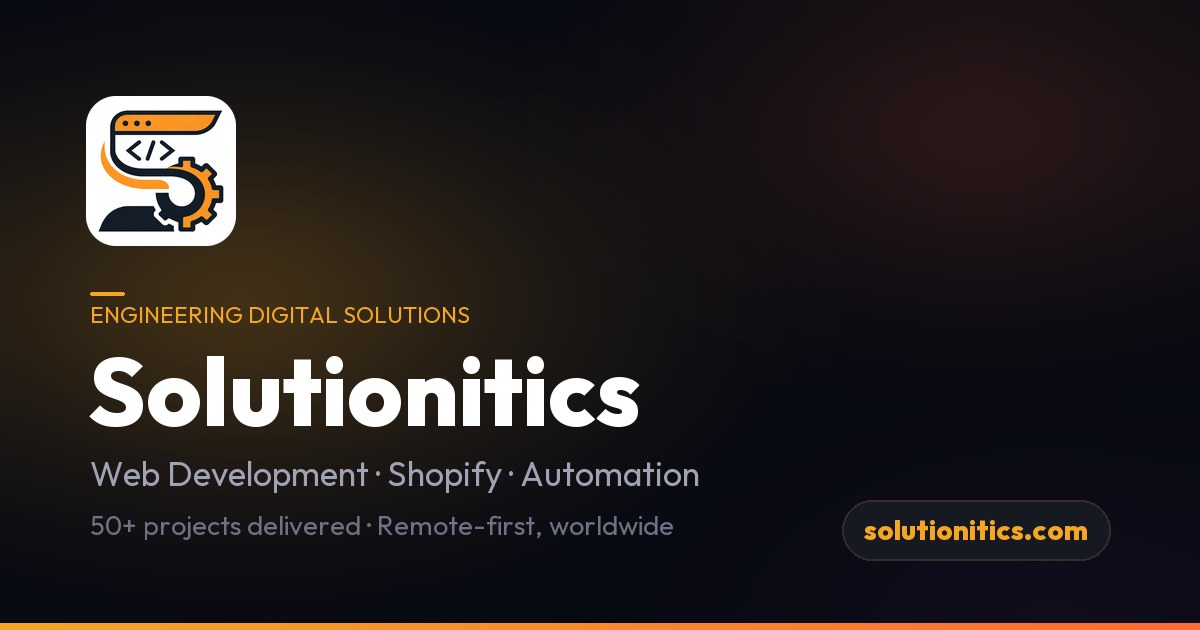
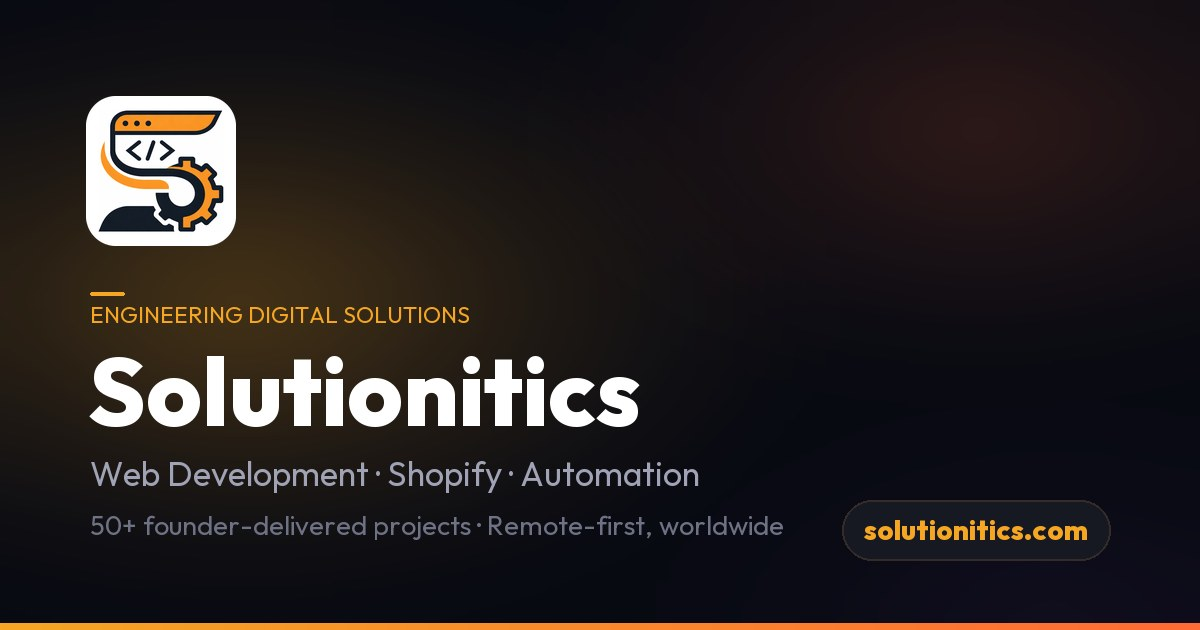
improve wordings

Changed region(s): [[0.1233, 0.8143, 0.6475, 0.8746]]

diff --git a/index.html b/index.html
@@ -7,7 +7,7 @@
   <link rel="preconnect" href="https://fonts.gstatic.com" crossorigin>
   <link rel="stylesheet" href="https://fonts.googleapis.com/css2?family=Inter:wght@300;400;500;600;700&amp;family=Outfit:wght@400;500;600;700;800&amp;display=swap">
   <title>Solutionitics — IT Solutions, Web Development & Shopify Experts</title>
-  <meta name="description" content="Solutionitics delivers premium web development, Shopify store builds, automation, and IT solutions. Founded by industry experts with 50+ projects delivered.">
+  <meta name="description" content="Solutionitics delivers premium web development, Shopify store builds, automation, and IT solutions — founded by developers with 50+ combined projects delivered.">
   <meta name="keywords" content="web development, Shopify development, automation, IT solutions, full stack, ecommerce, SEO optimization">
   <meta name="author" content="Solutionitics">
   <meta name="robots" content="index, follow">
@@ -158,13 +158,14 @@
         </div>
         <div class="hero-stat">
           <h3><span data-count="20" data-suffix="+">0</span></h3>
-          <p>Happy Clients</p>
+          <p>Clients Served</p>
         </div>
         <div class="hero-stat">
           <h3><span data-count="4" data-suffix="+">0</span></h3>
-          <p>Years Experience</p>
+          <p>Years' Experience</p>
         </div>
       </div>
+      <p class="hero-stats-note">Our founders' combined track record — Solutionitics launched in 2026.</p>
     </div>
   </section>
 

diff --git a/about.html b/about.html
@@ -157,7 +157,7 @@
               <div class="feature-icon">
                 <svg width="22" height="22" viewBox="0 0 24 24" fill="none" stroke="currentColor" stroke-width="2" stroke-linecap="round"><path d="M22 11.08V12a10 10 0 11-5.93-9.14"/><polyline points="22 4 12 14.01 9 11.01"/></svg>
               </div>
-              <div><h4>50+ Projects</h4><p>Successfully delivered across web, Shopify, and automation.</p></div>
+              <div><h4>50+ Projects</h4><p>Delivered by our founders across web, Shopify, and automation.</p></div>
             </div>
             <div class="feature-item">
               <div class="feature-icon">

diff --git a/css/style.css b/css/style.css
@@ -231,6 +231,12 @@ body.nav-open .nav-backdrop { opacity: 1; visibility: visible; }
 }
 .hero-stat h3 { font-size: 2.5rem; color: var(--accent); font-weight: 800; }
 .hero-stat p { font-size: 0.9rem; color: var(--text-tertiary); margin: 0; }
+/* attributes the headline figures to the founders, so they read as a
+   verifiable track record rather than a 2026 startup's inflated claim */
+.hero-stats-note {
+  margin: 20px 0 0; font-size: 0.8rem; color: var(--text-tertiary);
+  text-align: center; opacity: 0.85;
+}
 
 /* --- 8. Service Cards --- */
 .service-card {
